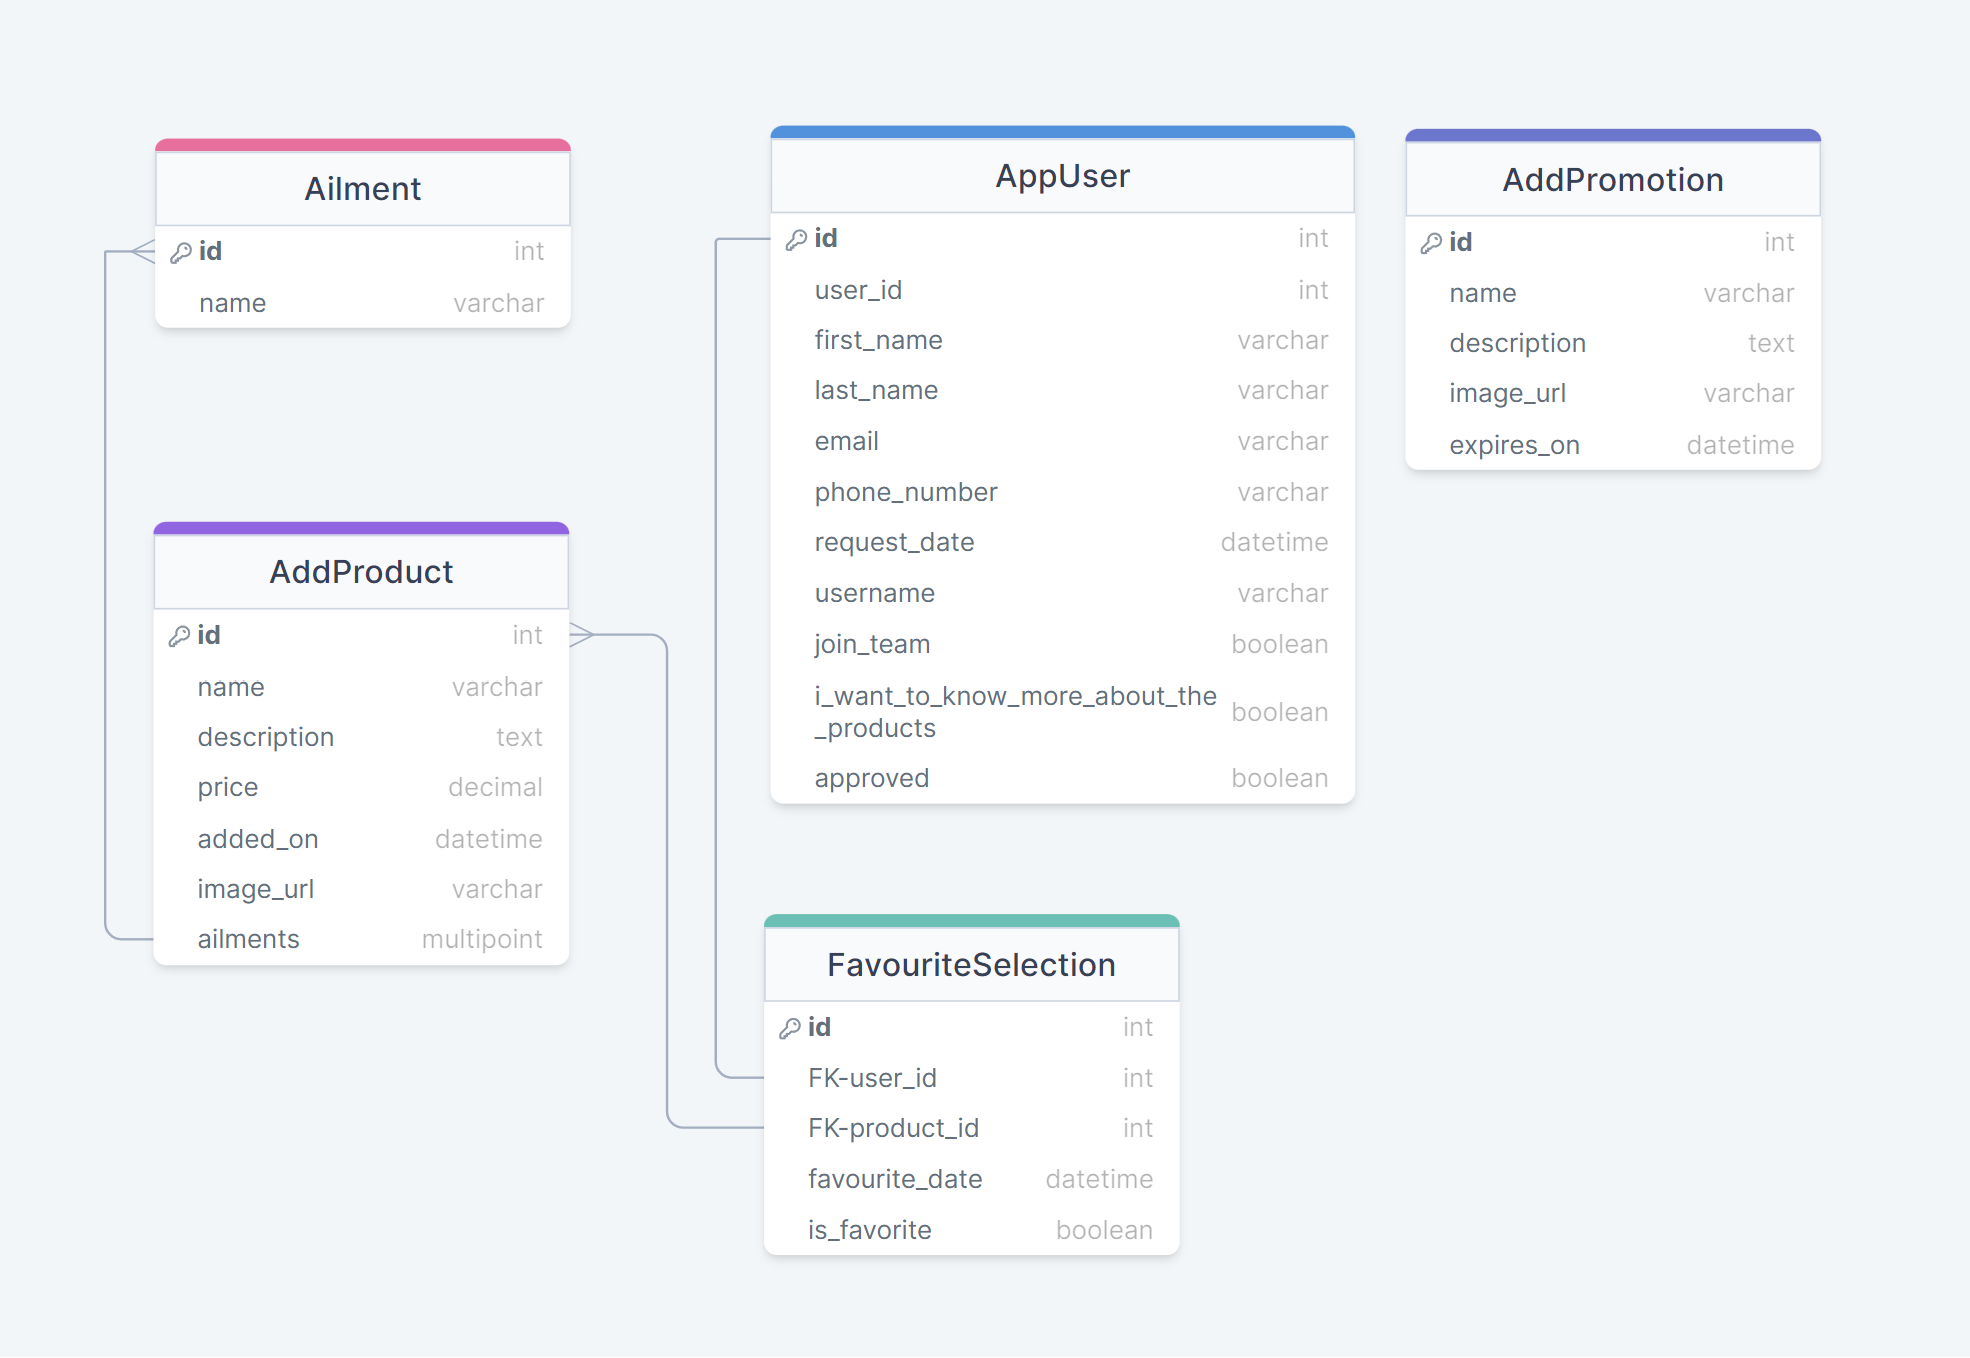
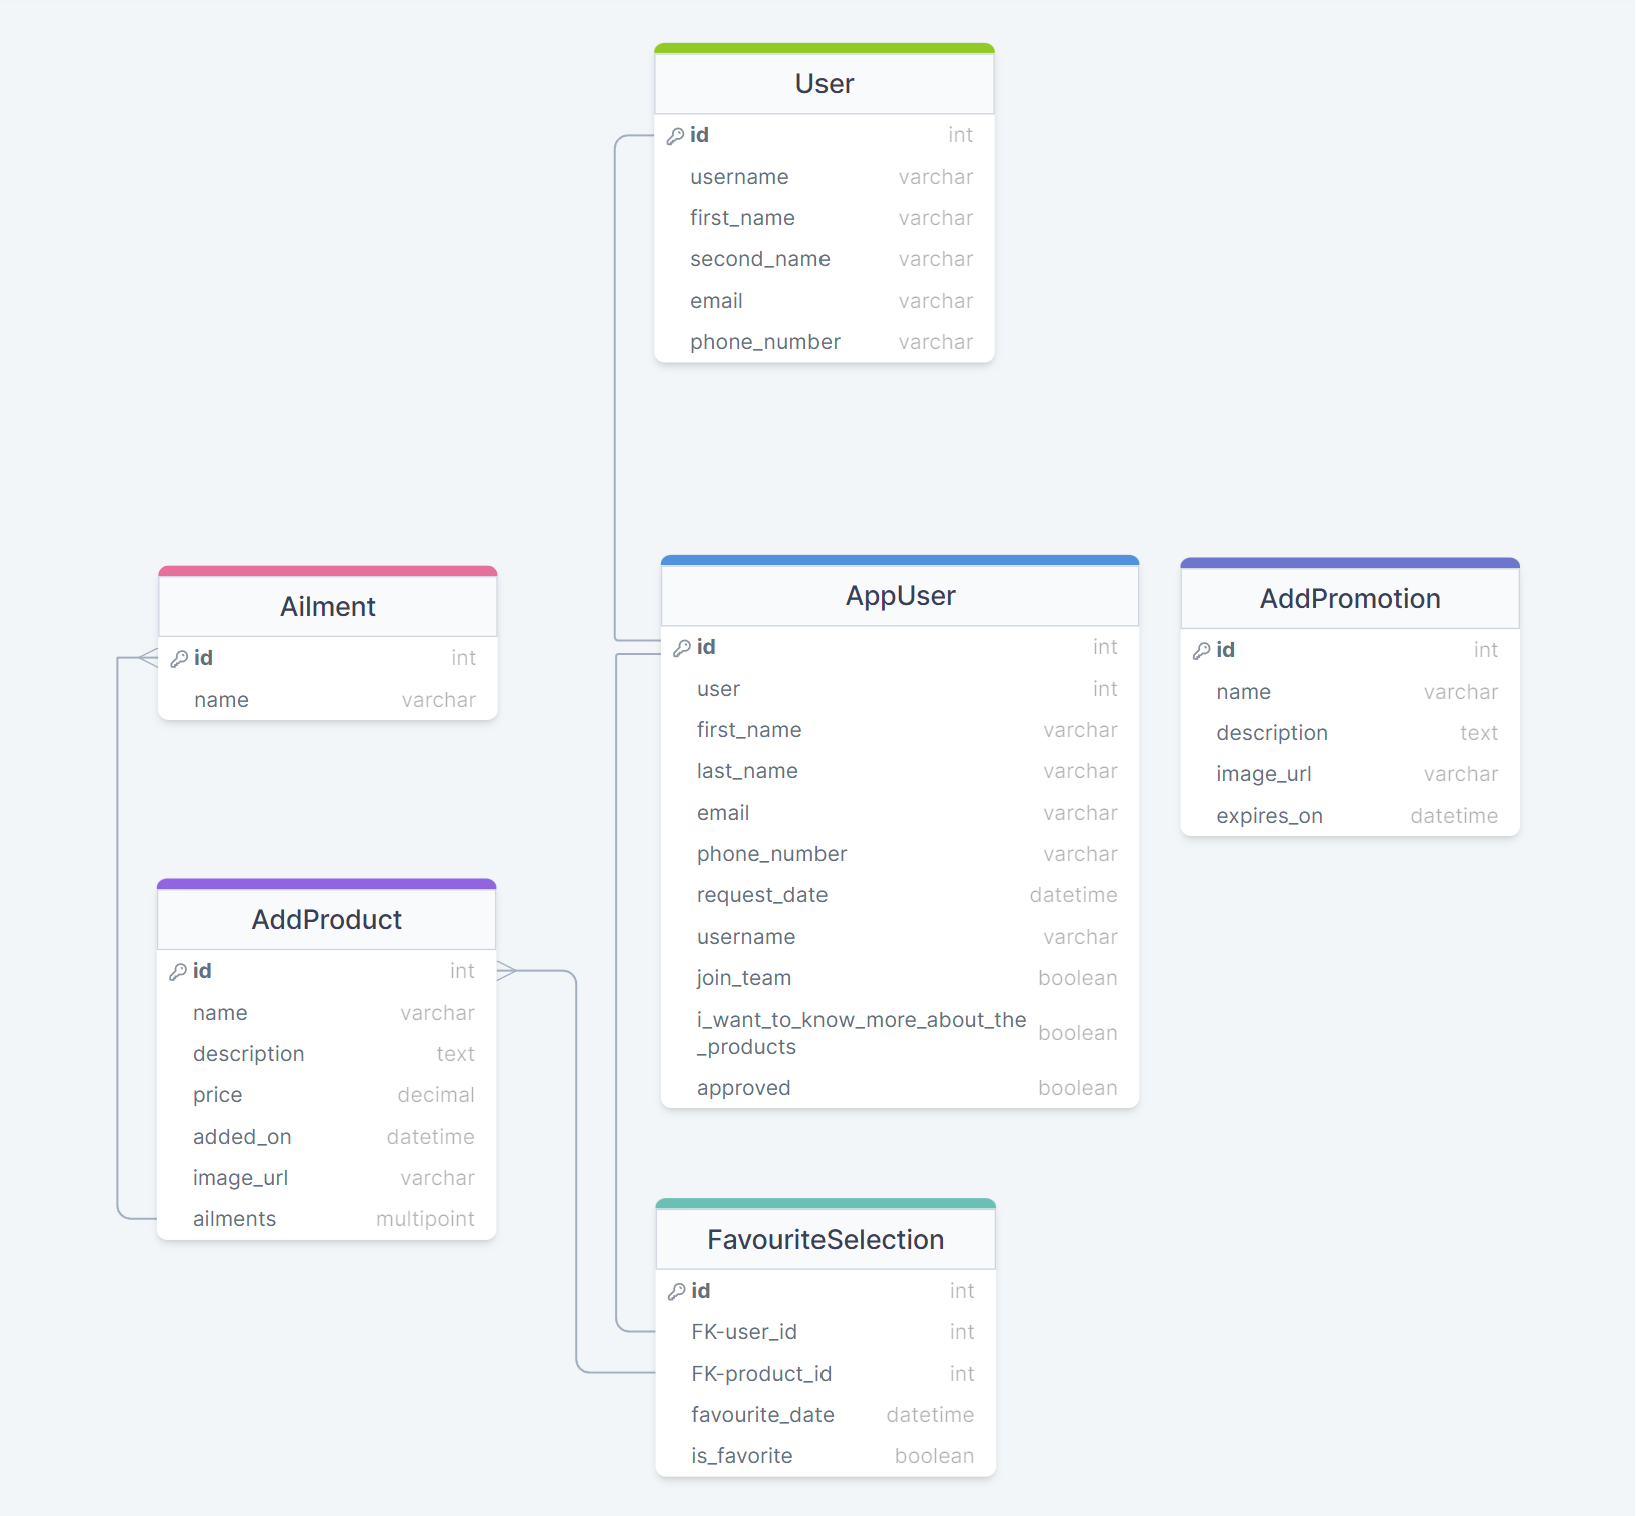
Update diagram explanations and image in readme

diff --git a/README.md b/README.md
@@ -354,12 +354,13 @@ To support both the functionality and the design part of the website, followin w
 
 ### Databases
 
-Database model and structure are relatively simple.
-The part that is not visible in the structure bellow is a User databse, automatically created by Allauth in the backend.
-This is linked also to AppUser, but it runs in parallel, AppUser being the choice for the administrator for majority of tasks.
-User is basically the solution to elaborate on users level of access and other key critical administrative elements.
+Database links into Django user and links mainly into the AppUser database.
+It was a conscious decission to allow the admin to be able to update only the Approved section from the backend inside the AppUser.
+All other actions are to be taken within the User section to minimize potential disturbance to the database.
 
-Updates to user account are done in the AppUser database.
+Databases all link into each other, Ailment having a Many to One relationship with AddProduct.
+
+The only standalone database is AddPromotion which doesn`t need any specific input in other section/databases in order to run.
 
 ![Alt text](/static/readme/database-diagram.png)
 
